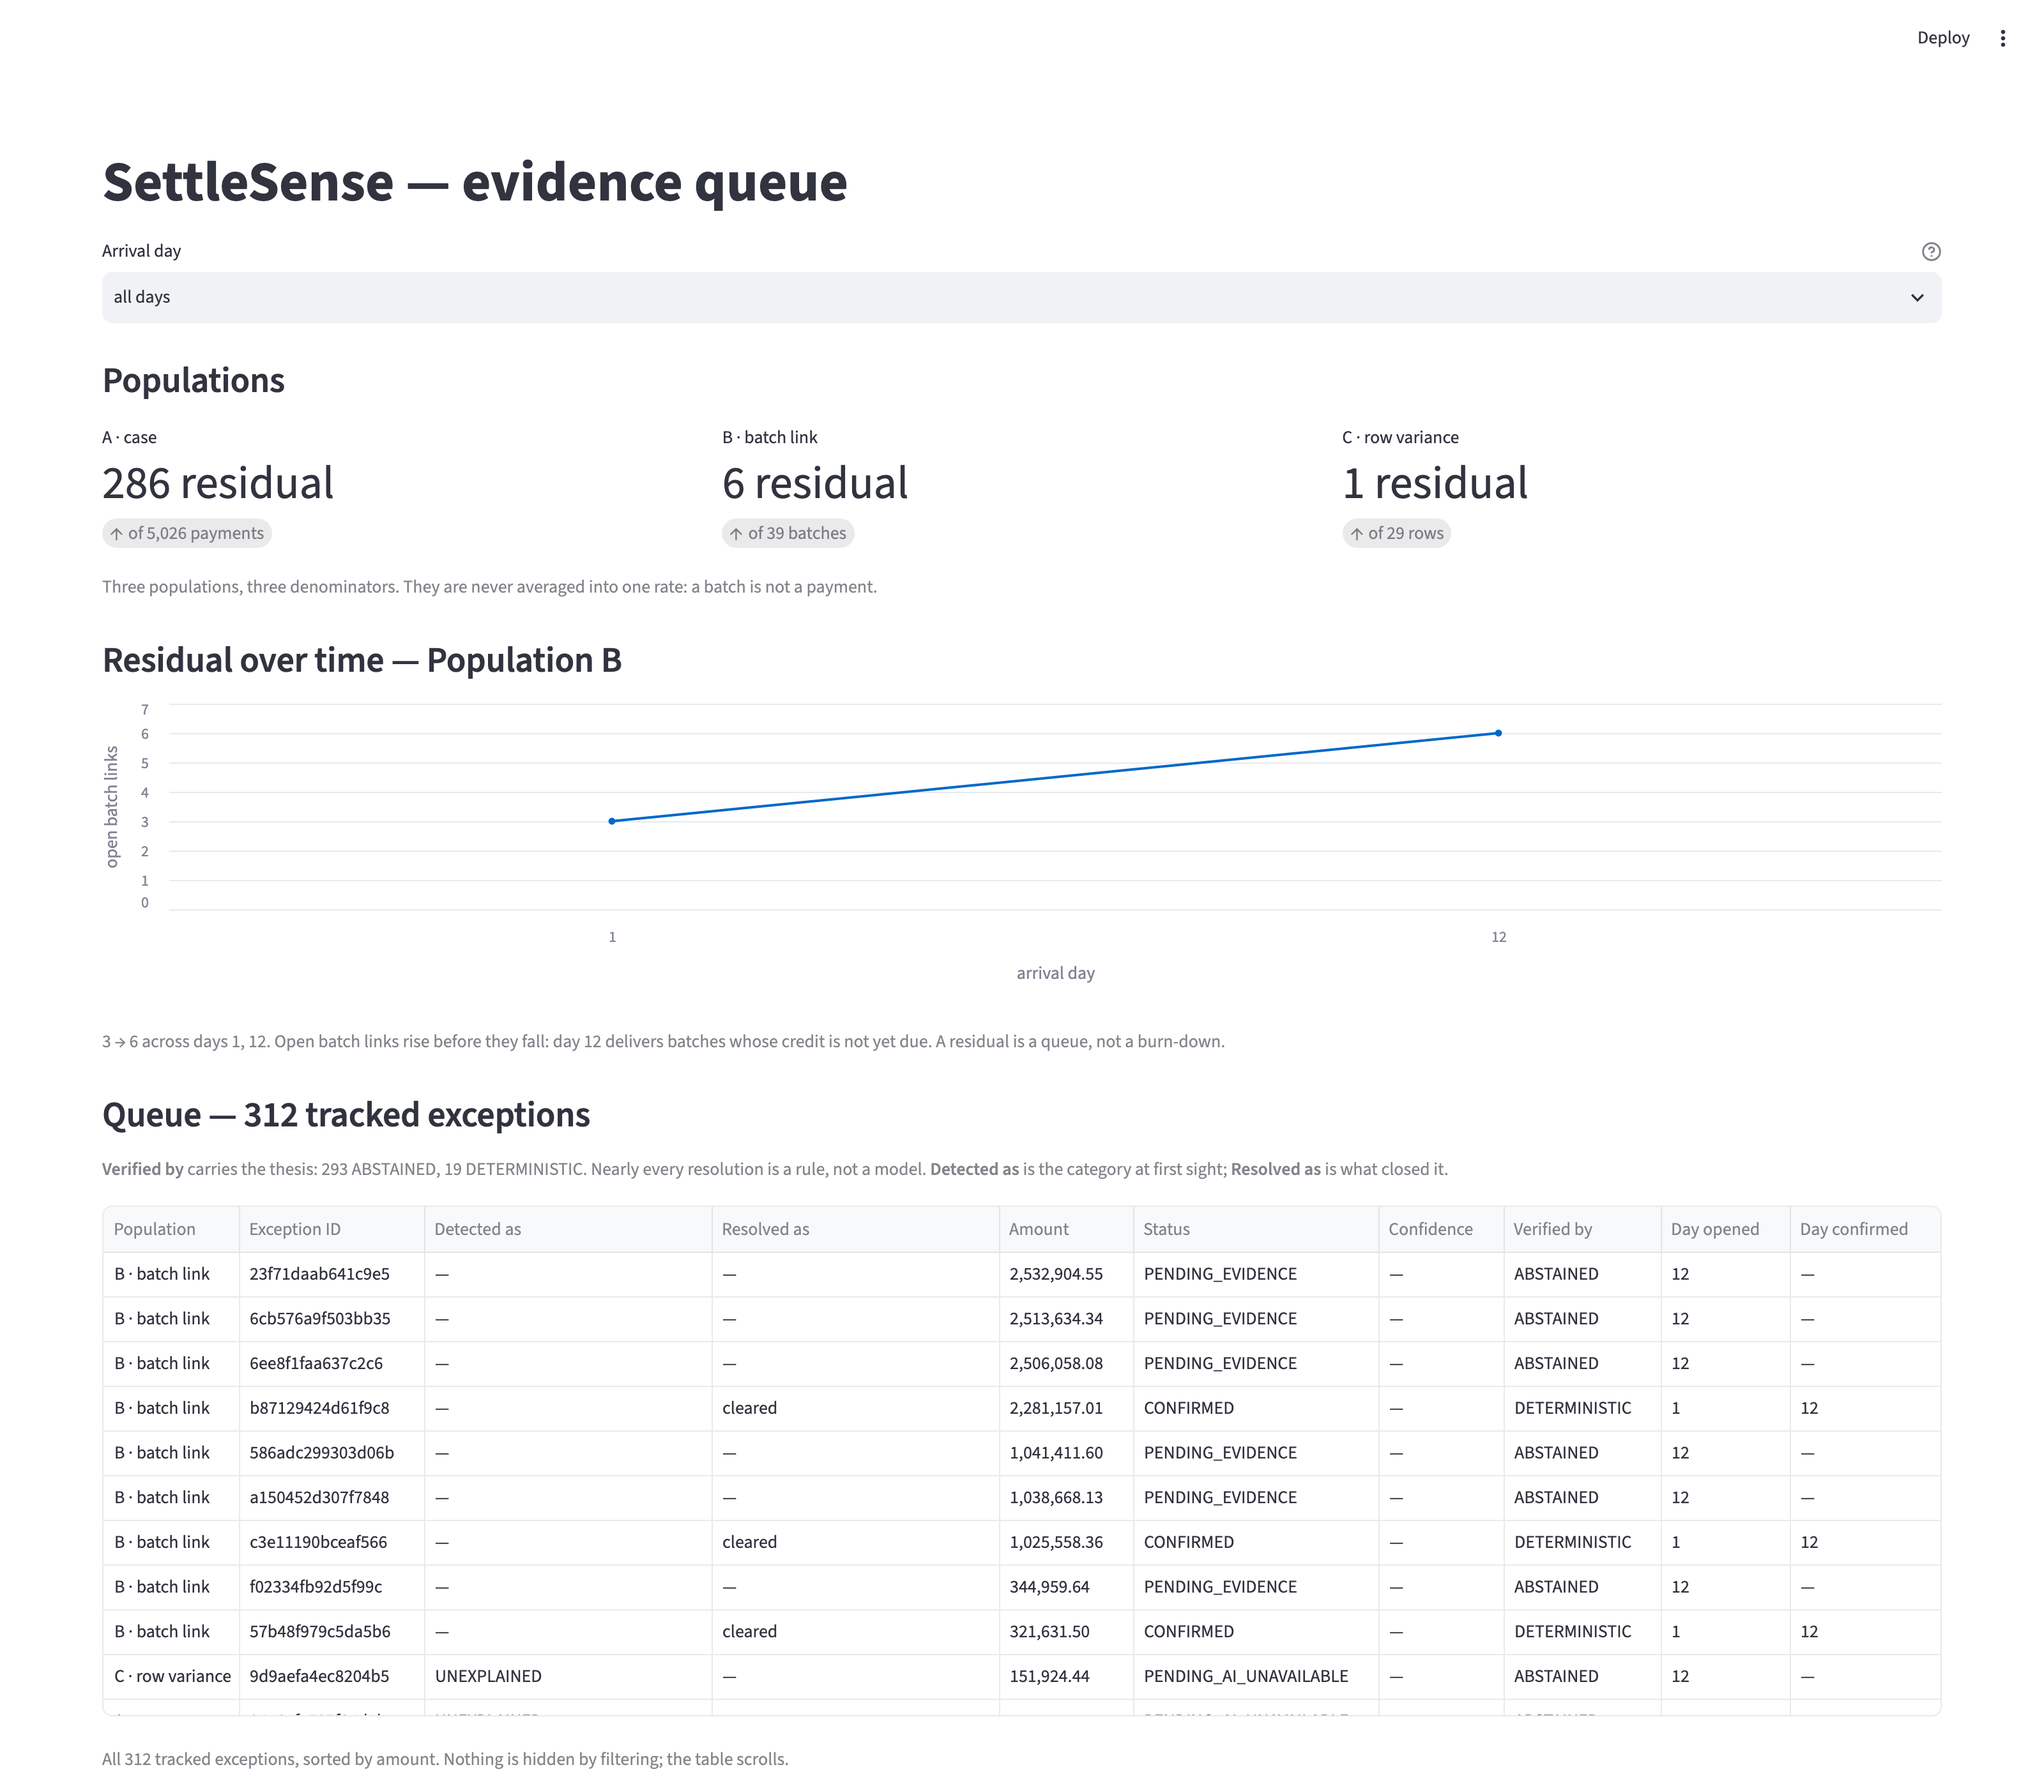
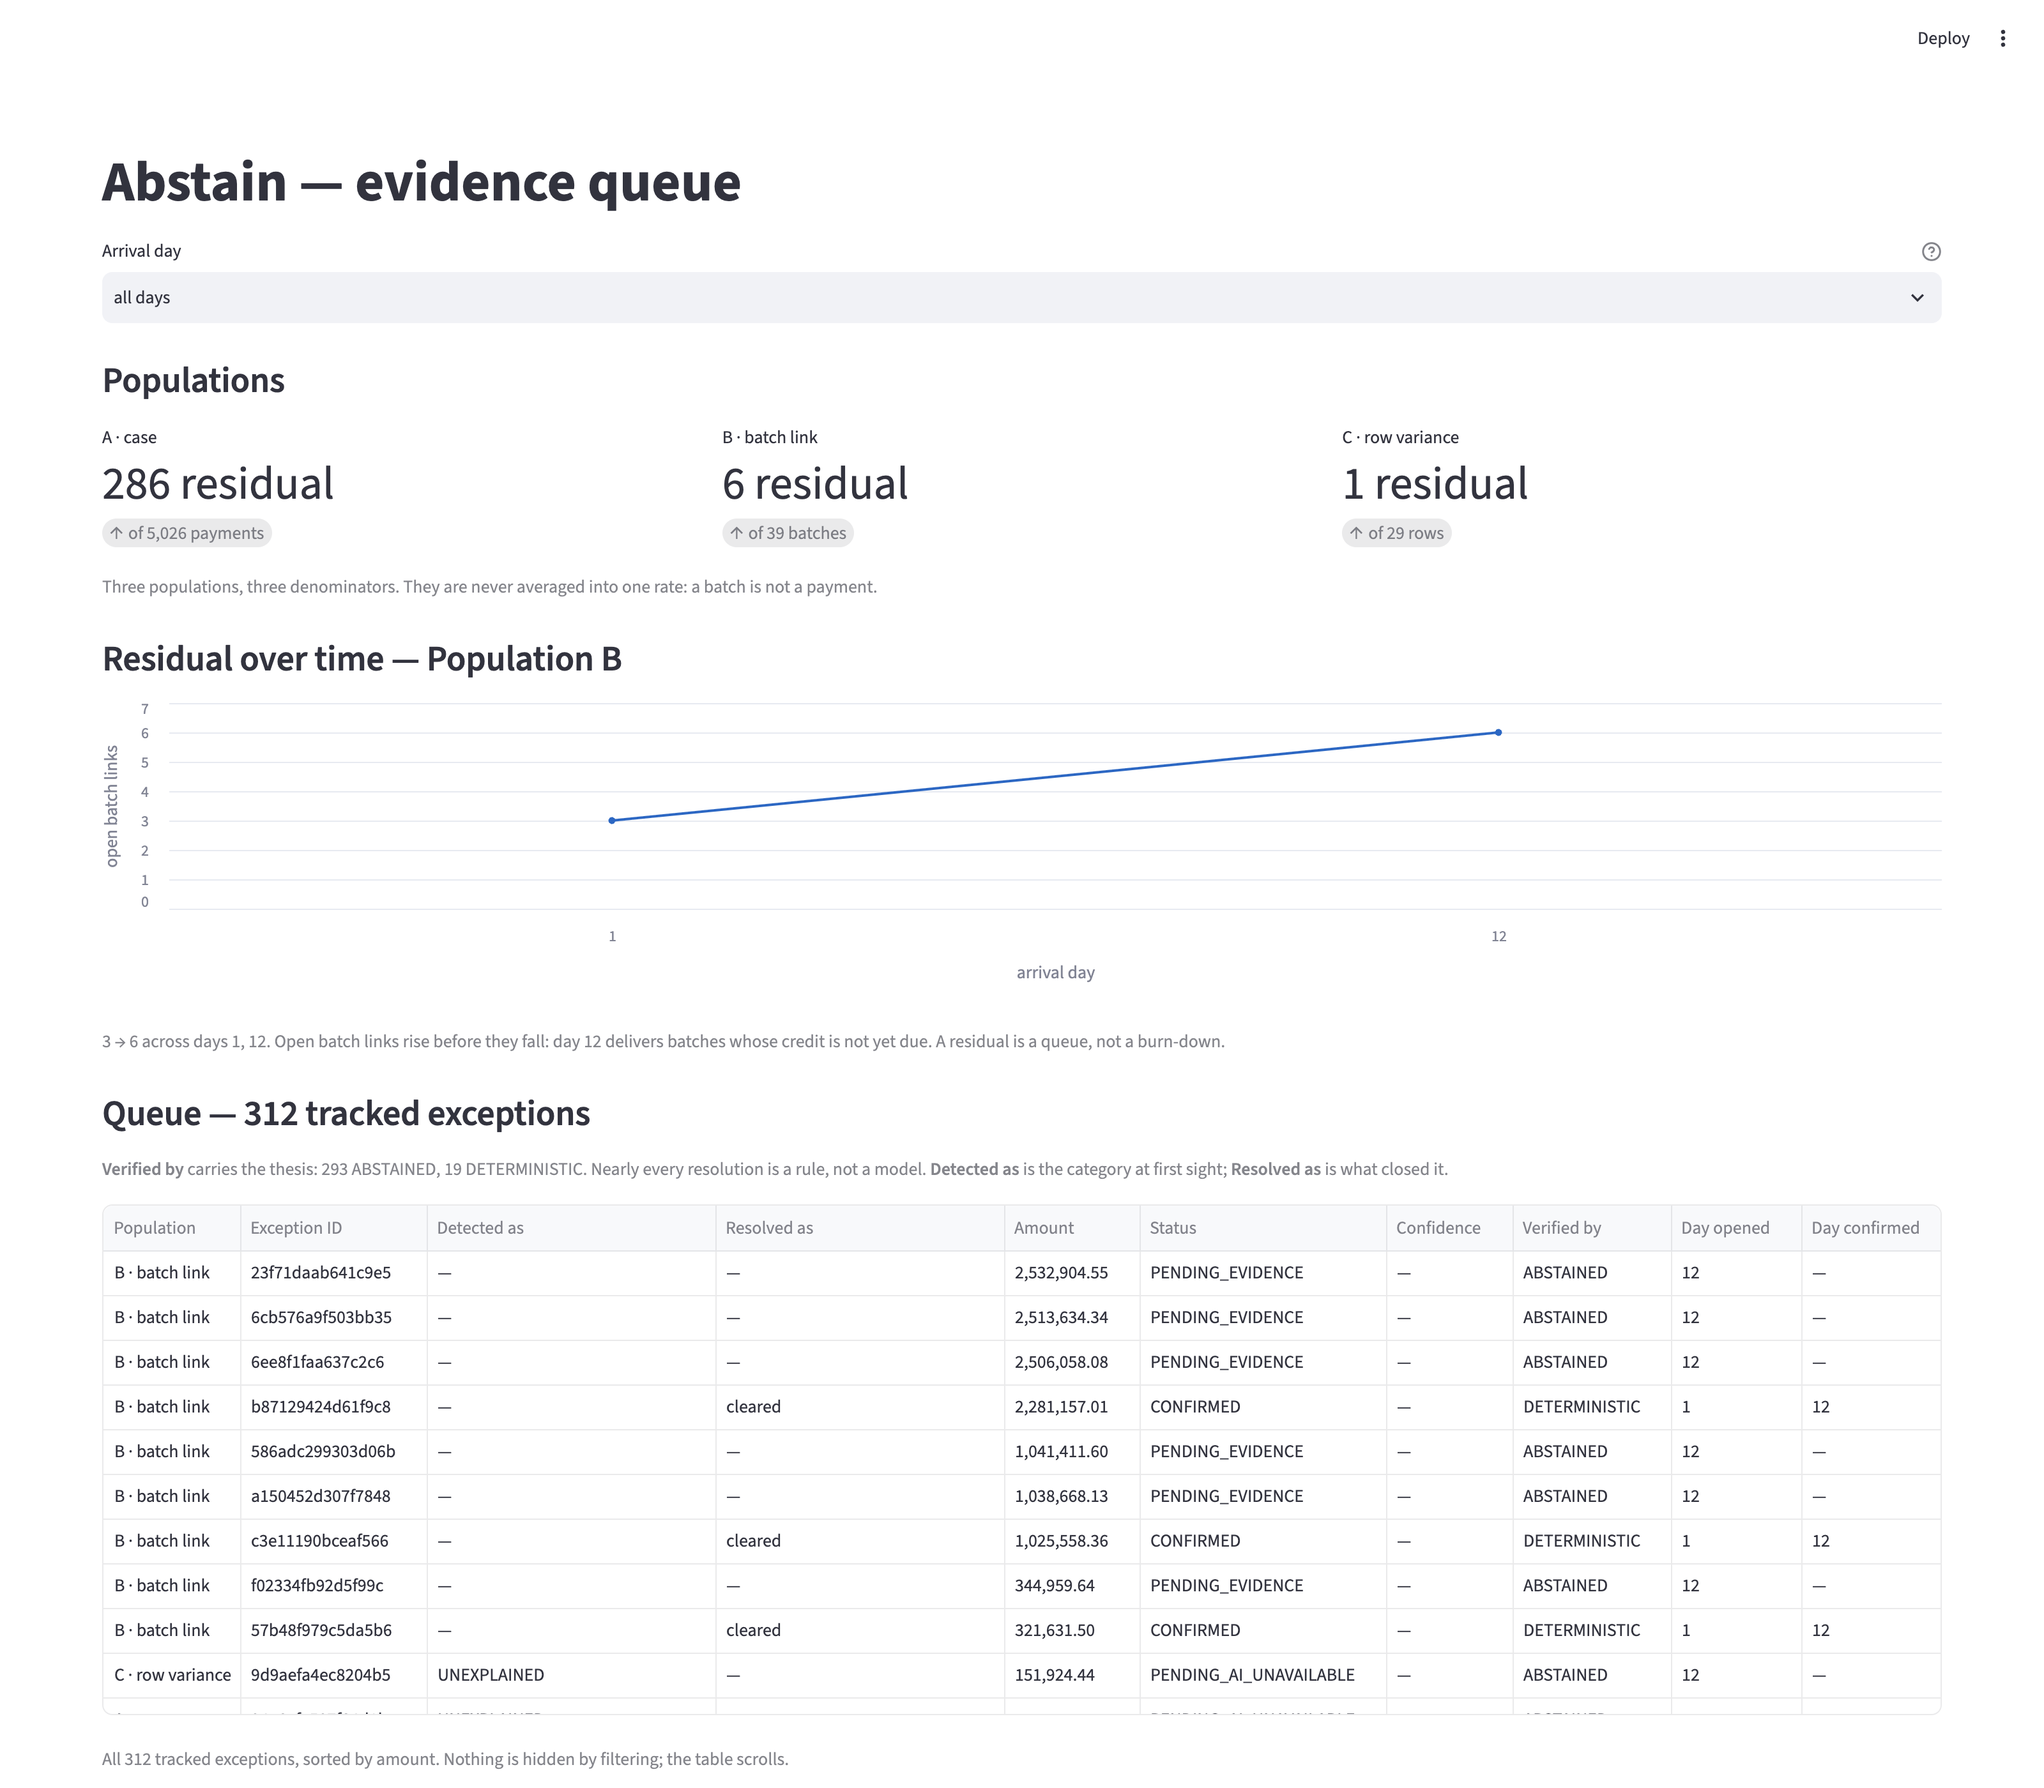
screenshots: the two Streamlit shots now carry the Abstain heading
The last artifacts still reading SettleSense. Retaken against the live
app - not headless Chrome, which captures the loading skeleton and is
why make screenshots skips them, but a visible Chrome window captured
over the DevTools protocol at a forced 1600x1400 viewport, 2x. Both
frames match the committed originals: 50/2/2 residual with 54 ABSTAINED,
2 AI_VERIFIED, 283 DETERMINISTIC in the queue shot; 286/6/1 residual,
312 tracked, both waiting-state labels visible in the outage shot.

The README loses the note excusing the old heading (no longer true),
records the headed-capture method beside the headless failure it
qualifies, and gains the make ai-store step the retake block omitted -
without it the queue renders its pre-AI state, 52 residual and no
AI_VERIFIED rows, and the shot contradicts the figures beside it.

Claude-Session: https://claude.ai/code/session_014J7XqaJXiXXfiYo5P32X8G

diff --git a/README.md b/README.md
@@ -560,21 +560,23 @@ screenshot still match what the code renders?" could only be answered by
 trusting the image.
 
 Two of the six — `streamlit-queue.png` and `streamlit-outage.png` — are
-**taken by hand and cannot currently be automated.** The Streamlit app renders
+**captured outside `make screenshots`.** The Streamlit app renders
 client-side, and headless Chrome captures its grey skeleton placeholders: a 4s
 settle, a 25s settle and disabling XSRF and CORS all produced a 29KB image of a
 loading state. Writing that over a real screenshot would have looked like a
-successful run, so the target does not touch them. To retake them:
+successful run, so the target does not touch them. A *visible* Chrome window
+does render fully — the committed pair was captured from one over the DevTools
+protocol at a forced 1600×1400 viewport. To retake them:
 
 ```
-make demo-state && make ui     # then screenshot localhost:8501
-make ui-outage                 # SETTLESENSE_DB=reports/ui/outage.db make ui
+make demo-state && make ai-store   # the store the shot shows: 283 DETERMINISTIC, 2 AI_VERIFIED
+make ui                            # then capture localhost:8501 in a HEADED browser
+make ui-outage                     # then: SETTLESENSE_DB=reports/ui/outage.db make ui, capture again
 ```
 
-The two manual shots still carry the heading from before the display rename to
-Abstain, for exactly this reason: they cannot be retaken by a target, and a
-hand-retake substitutes a new manual capture for a recorded one. The four
-automated shots show the current heading.
+Without the `make ai-store` step the queue renders its pre-AI state — 52
+residual and no AI_VERIFIED rows — and the shot silently contradicts the
+figures above.
 
 ## Generator independence
 
